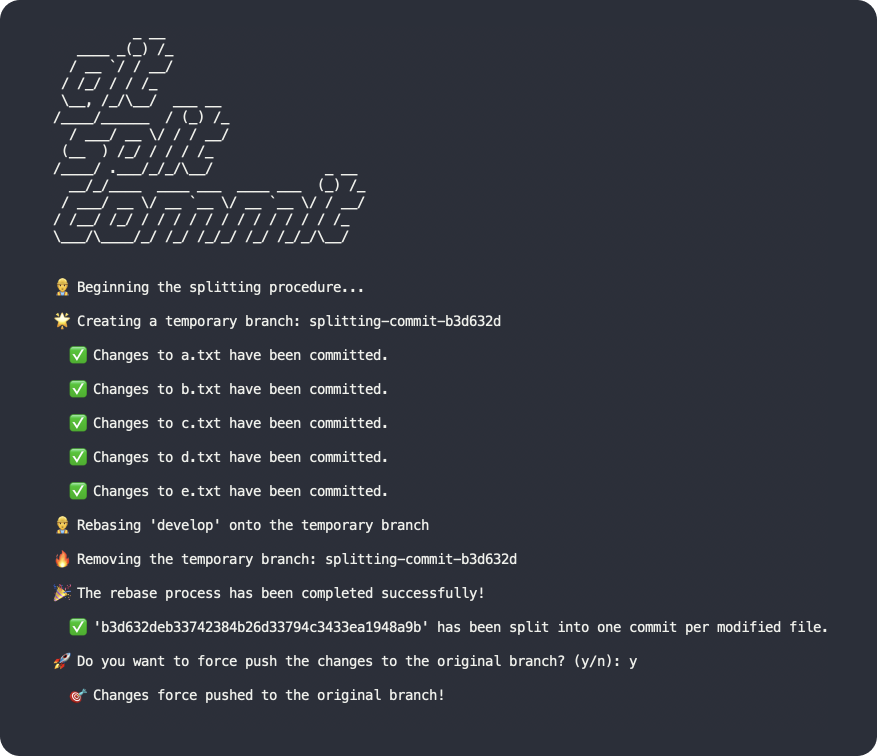
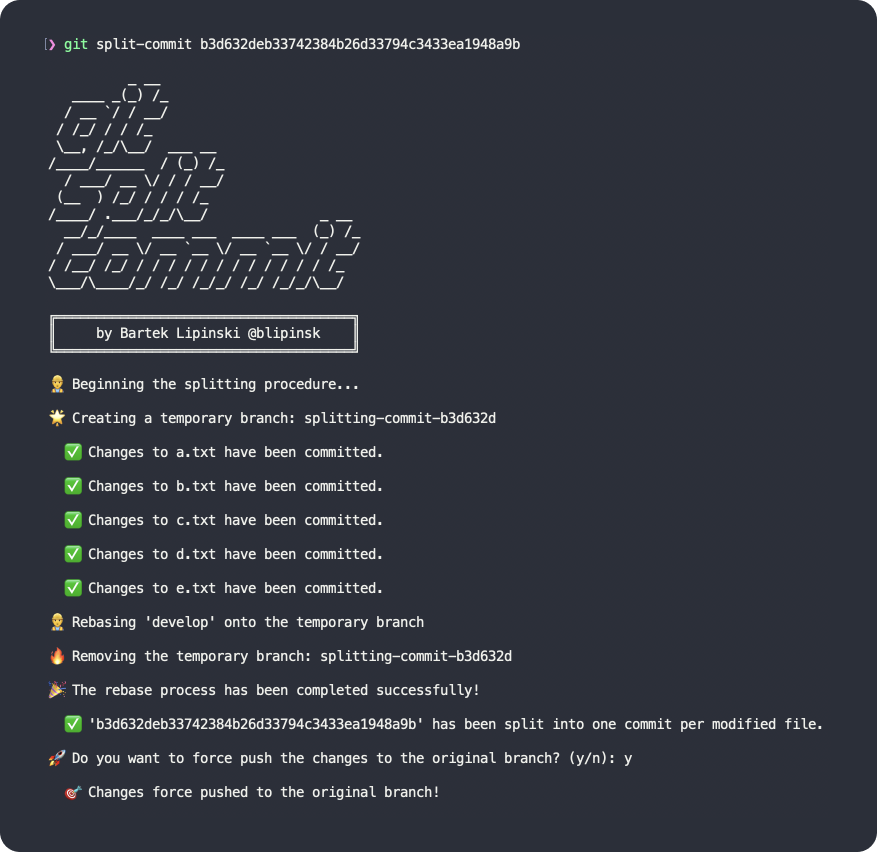
Readme updated

Changed region(s): [[0.0308, 0.0304, 0.9544, 0.9431], [0.9852, 0.9735, 1.0, 1.0]]

diff --git a/README.md b/README.md
@@ -5,12 +5,26 @@ A bash script that splits a git commit into multiple commits, one for each modif
 
 **Check out my [blog](https://medium.com/@blipinsk) :shipit: or say *hi* on [Twitter](https://twitter.com/blipinsk).**
 
-How to use
-==========
+How does it work?
+=================
 
-To split a Git commit, run the script with the hash of the commit to split as the only argument:
+![how_it_works](/img/how_it_works.png)
+
+Installation
+============
+
+This step is _optional_, but strongly advised. You can use the script directly without installing the git alias, but git alias makes it much better.
+
 ```shell
-Usage: ./git-split-commit.sh <commit_hash> [options]
+./install-git-alias.sh
+```
+
+Usage
+=====
+
+To split a Git commit, run the git alias for the script with the hash of the commit to split as the only argument:
+```shell
+Usage: git split-commit <commit_hash> [options]
 Options:
   --version, -v     Prints the version of the script
   --help, -h        Prints this usage message
